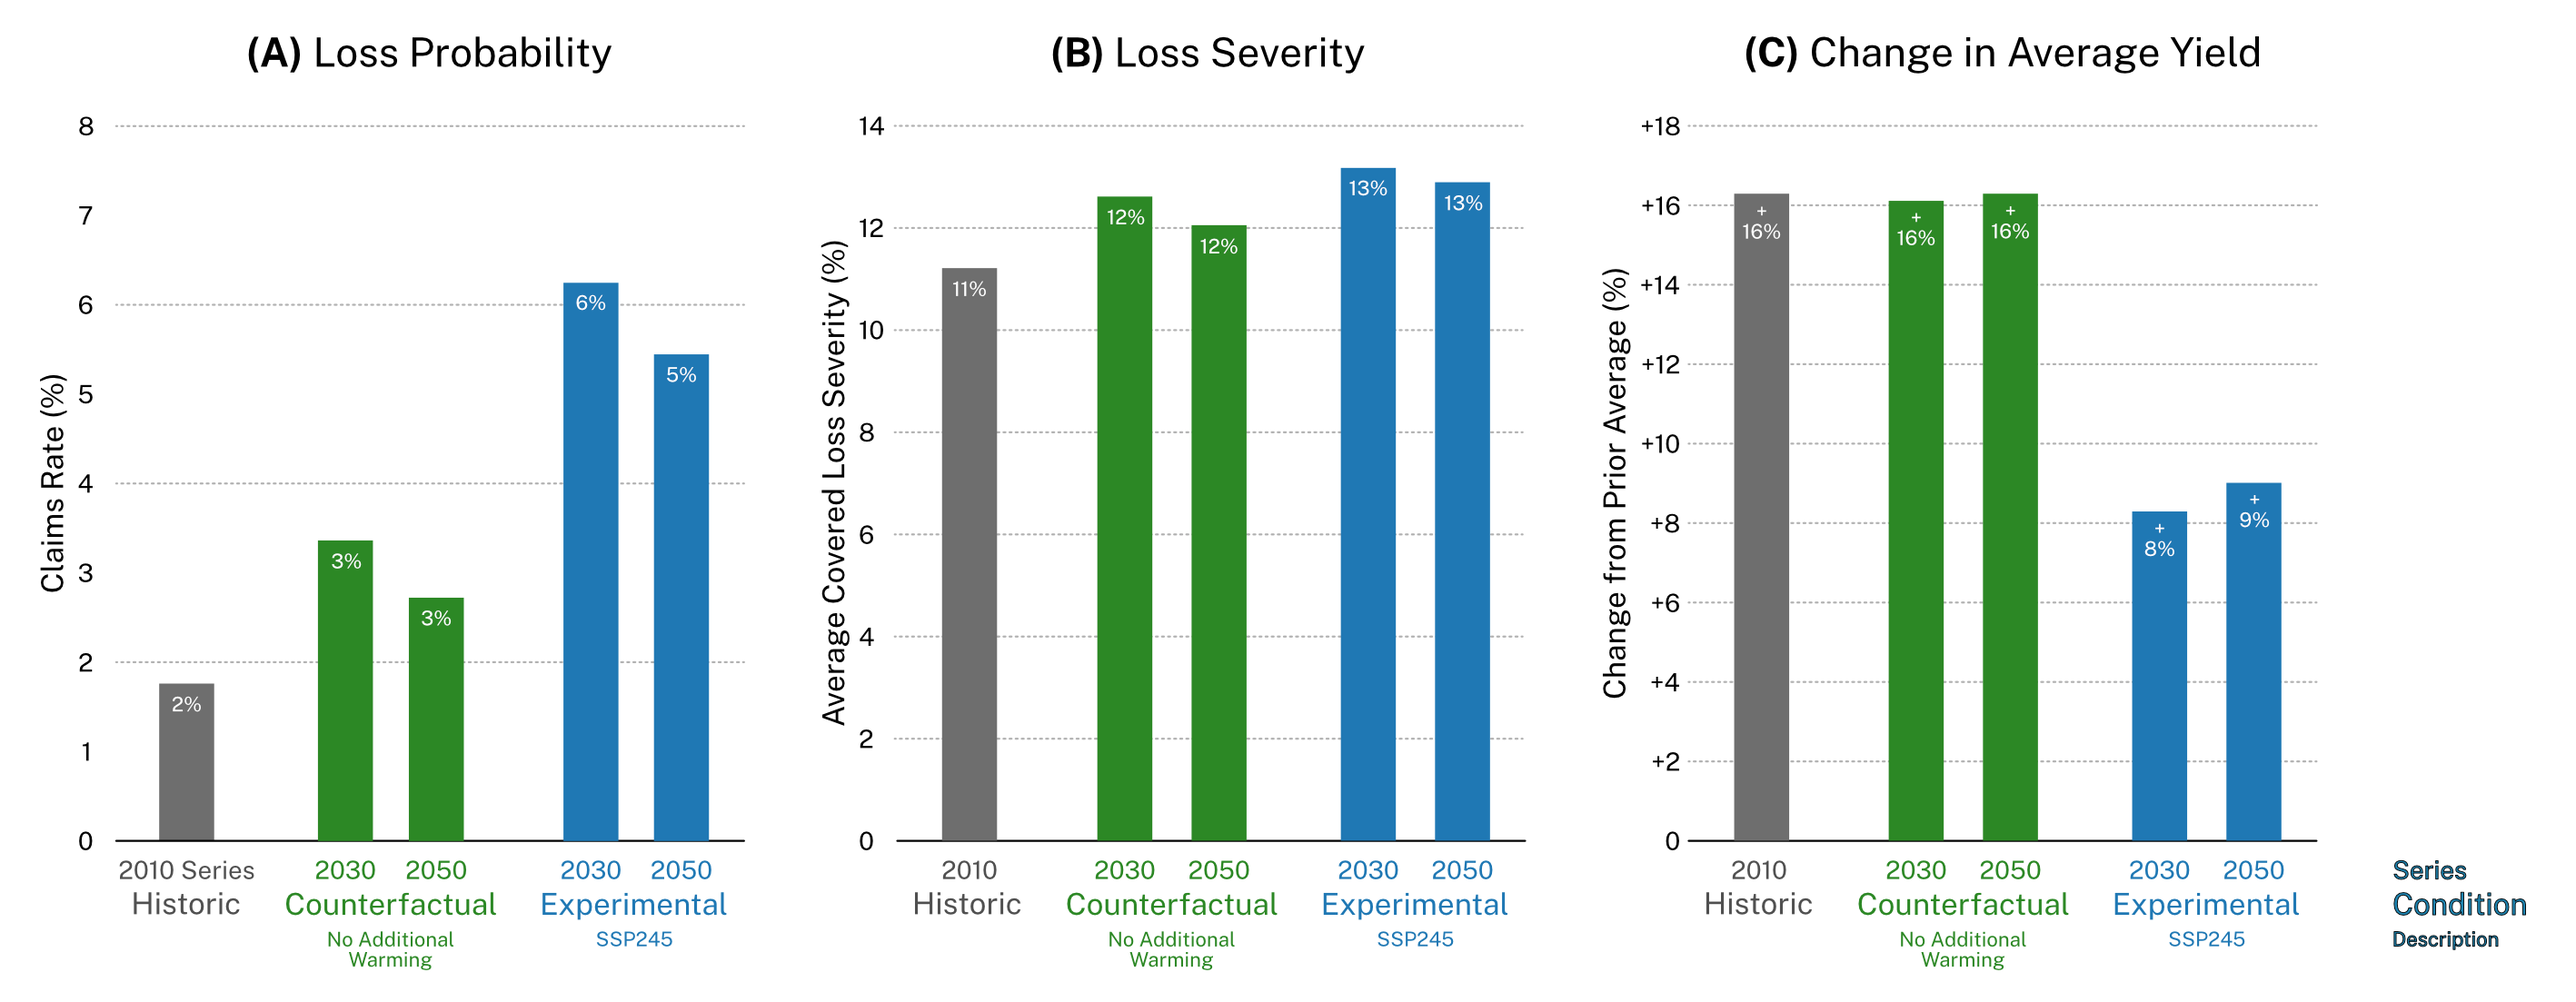
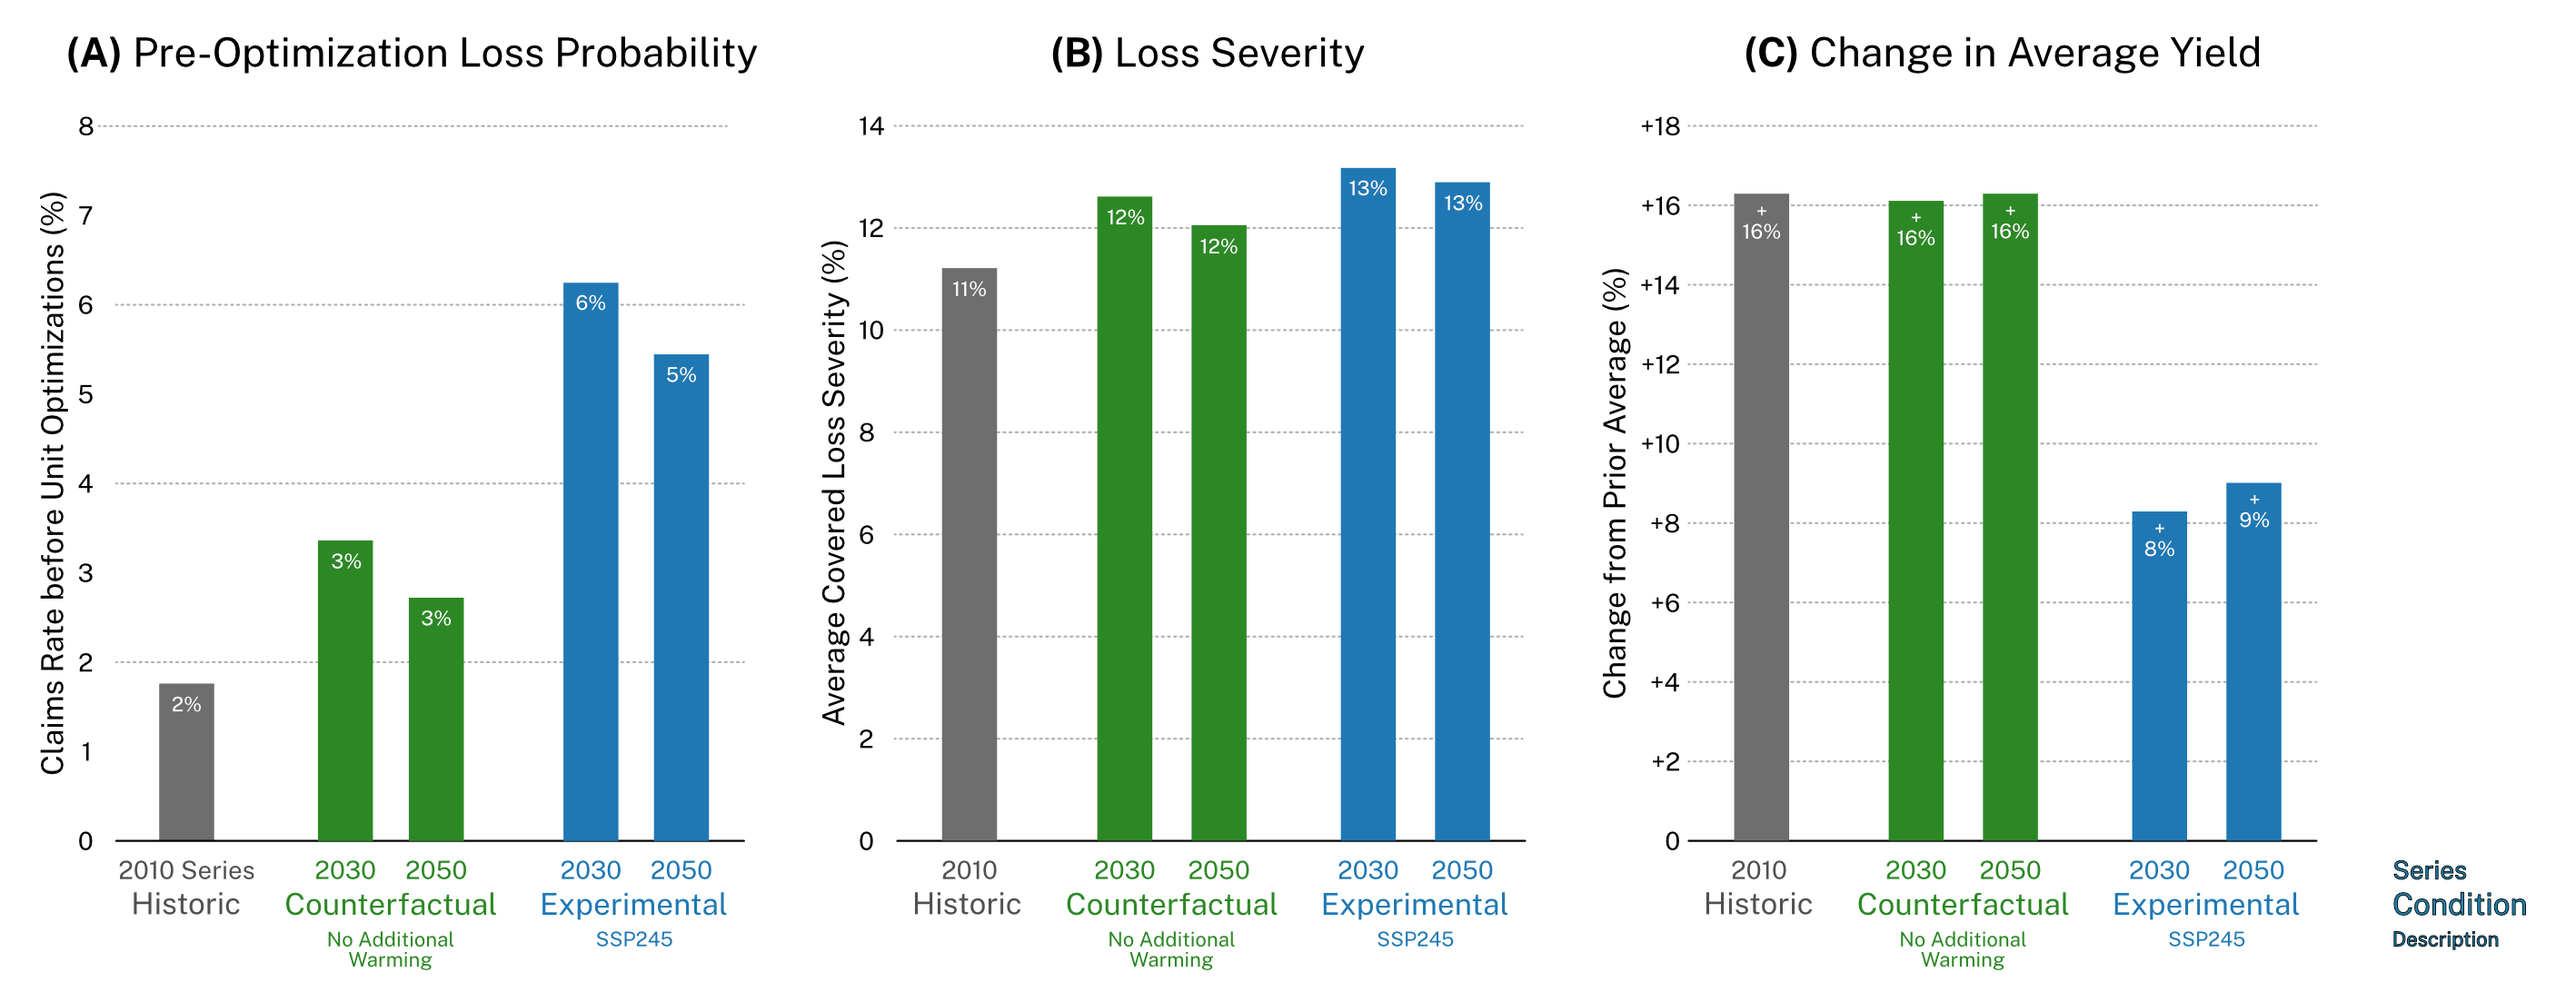
Minor touch ups.

diff --git a/paper/paper.md b/paper/paper.md
@@ -127,7 +127,7 @@ Table: Overview of trials after model selection. {#tbl:posthoc}
 These post-hoc trials use only training and test sets as we fully retrain models using unchanging sweep-chosen hyper-parameters as described in Table @tbl:sweepparam. Note that some of these tests use "regions" which we define as all geohashes sharing the same first three characters. This two tier definition creates a grid of 109 x 156 km cells [@haugen_geohash_2020] each including all neighborhoods (4 character geohashes) found within that area.
 
 ## Simulation
-After training machine learning models using historic data, predictions of future distributions feed into Monte Carlo simulations [@metropolis_beginning_1987; @kwiatkowski_monte_2022] as described in Figure @fig:pipeline. This happens for nine individual years sampled separately from both the 2030 and 2050 CHC-CMIP6 series [@williams_high_2024]. With trials consisting of sampling at the neighborhood scale, this approach allows us to consider a distribution of future outcomes for each neighborhood. These results then enable us to make statistical statements about systems-wide institution-relevant events such as claims probability ($p_{l}$).
+After training machine learning models using historic data, predictions of future distributions feed into Monte Carlo simulations [@metropolis_beginning_1987; @kwiatkowski_monte_2022] as described in Figure @fig:pipeline. This happens for nine individual years sampled separately from both the 2030 and 2050 CHC-CMIP6 series [@williams_high_2024]. With trials consisting of sampling at the neighborhood scale, this approach allows us to consider a distribution of future outcomes for each neighborhood. These results then enable us to make statistical statements about systems-wide institution-relevant events such as claims probability ($p_{l}$). We specifically simulate loss probability prior to unit optimizations as explored in discussion.
 
 ![Model pipeline overview diagram. Code released as open source.](./img/pipeline.png "Model pipeline overview diagram. Code released as open source."){ width=80% #fig:pipeline }
 
@@ -172,13 +172,13 @@ After retraining on all available data using the selected configuration from our
 
 ![Overview of Monte Carlo simulation results with (A) loss probability, (B) loss severity, and (C) change in average yields. Counterfactual is a future without continued warming in contrast to SSP245. While results show roughly steady claims rates in the counterfactual, these data suggest that the claims rate roughly doubles from 2 - 3% to 5 - 6%. Prior to unit structure optimization.](./img_static/sim.png "Overview of Monte Carlo simulation results. Counterfactual is a future without continued warming in contrast to SSP245. While results show roughly steady claims rates in the counterfactual, these data suggest that the claims rate roughly doubles from 2 - 3% to 5 - 6%. Prior to unit structure optimization."){#fig:simresults}
 
-As described in Figure @fig:simresults, loss probability sharply increases in both the 2030 and 2050 time frames considered for SSP245 whereas the no warming counterfactual sees roughly steady claims rates into the future. SSP245 also reduces anticipated mean yield gains otherwise consistent with historic trends [@nielsen_historical_2023]. However, these numbers present on results prior to unit structure optimization.
+Figure @fig:simresults reports on loss rates prior to exclusions / adjustments and unit optimizations that would further drive claims rates higher.  Loss probability roughly dobules increases in both the 2030 and 2050 time frames considered for SSP245 whereas the no warming counterfactual sees roughly steady claims rates into the future. SSP245 also reduces anticipated mean yield gains otherwise consistent with historic trends [@nielsen_historical_2023].
 
 # Discussion
 In addition to highlighting future work opportunities and further exploring our results, we observe a number of policy-relevant dynamics within our simulations.
 
 ## Unit optimization
-Field-level yield data and the actual geographically specific risk unit structure are not currently public so we sample units randomly based on expected size. However, as further explored in supplemental, growers likely optimize their own unit structure when purchasing policies, causing an under-estimation of claims rates. The 2016 actual claims rate is about 14% for the population considered [@rma_statecountycrop_2024]. That in mind, the relative change in claims rate within our simulations is more salient: the doubling from current to 2050 is more important than the claims rates themselves as unit structure optimization would be active in both. Similarly, we do not have the geographically specific data required to model policy mechanisms of trend adjustment [@plastina_trend-adjusted_2014] and yield exclusion years [@schnitkey_yield_2015]. However, as both likely raise $y_{expected}$, excluding these two factors likely leads to a supression of loss rates in our simulations especially for SSP245.
+Field-level yield data and the actual geographically specific risk unit structure are not currently public so we sample units randomly based on expected size. However, as further explored in supplemental, growers likely optimize their own unit structure when purchasing policies, likely causing an under-estimation of claims rates. That in mind, the relative change in claims rate within our simulations is more salient: the doubling from current to 2050 is more important than the claims rates themselves as unit structure optimization would be active in both. Similarly, we do not have the geographically specific data required to model policy mechanisms of trend adjustment [@plastina_trend-adjusted_2014] and yield exclusion years [@schnitkey_yield_2015]. However, as both likely raise $y_{expected}$, excluding these two factors likely leads to a supression of loss rates in our simulations especially for SSP245. Altogether, recent actual claims rates which account for these factors are about 14% [@rma_statecountycrop_2024]. 
 
 ## Yield expectations
 Figure @fig:hist highlights possible challenges with using a simple average in crop insurance products: simulations anticipate that the claims rate increases under climate change (SSP245) even as the overall yield mean remains similar to or above the historic baseline. Indeed, {{ dualIncreasePercent2050 }} of neighborhoods seeing higher claims rates under SSP245 in the 2050 series also report overall multi-year average yields remaining unchanged or even increasing. In other words, yield volatility could allow a sharp elevation in loss probability without necessarily decreasing overall mean yields that would be reflected in $y_{expected}$.
